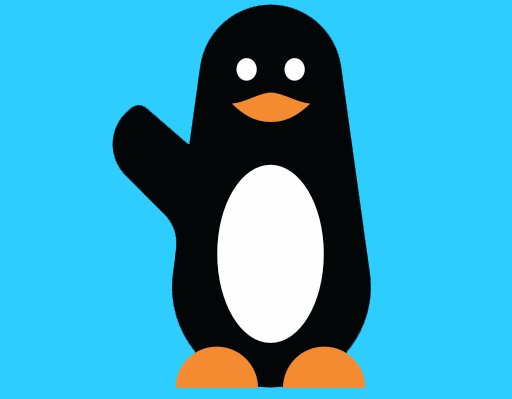
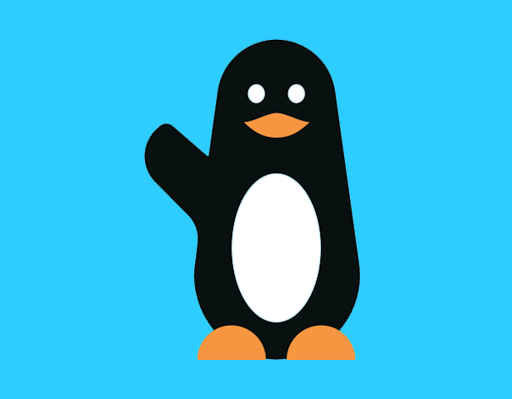
assets

Changed region(s): [[0.2188, 0.0, 0.75, 0.9925]]

diff --git a/lib/digital_pay.dart b/lib/digital_pay.dart
@@ -84,7 +84,7 @@ class _HomeDPayState extends State<HomeDPay> {
       true
     ],
     "wave": [
-      "https://raw.githubusercontent.com/KBenjaminYao/digital_pay/main/assets/wave.webp",
+      "https://raw.githubusercontent.com/KBenjaminYao/digital_pay/main/assets/wave.png",
       "wave",
       true
     ],
